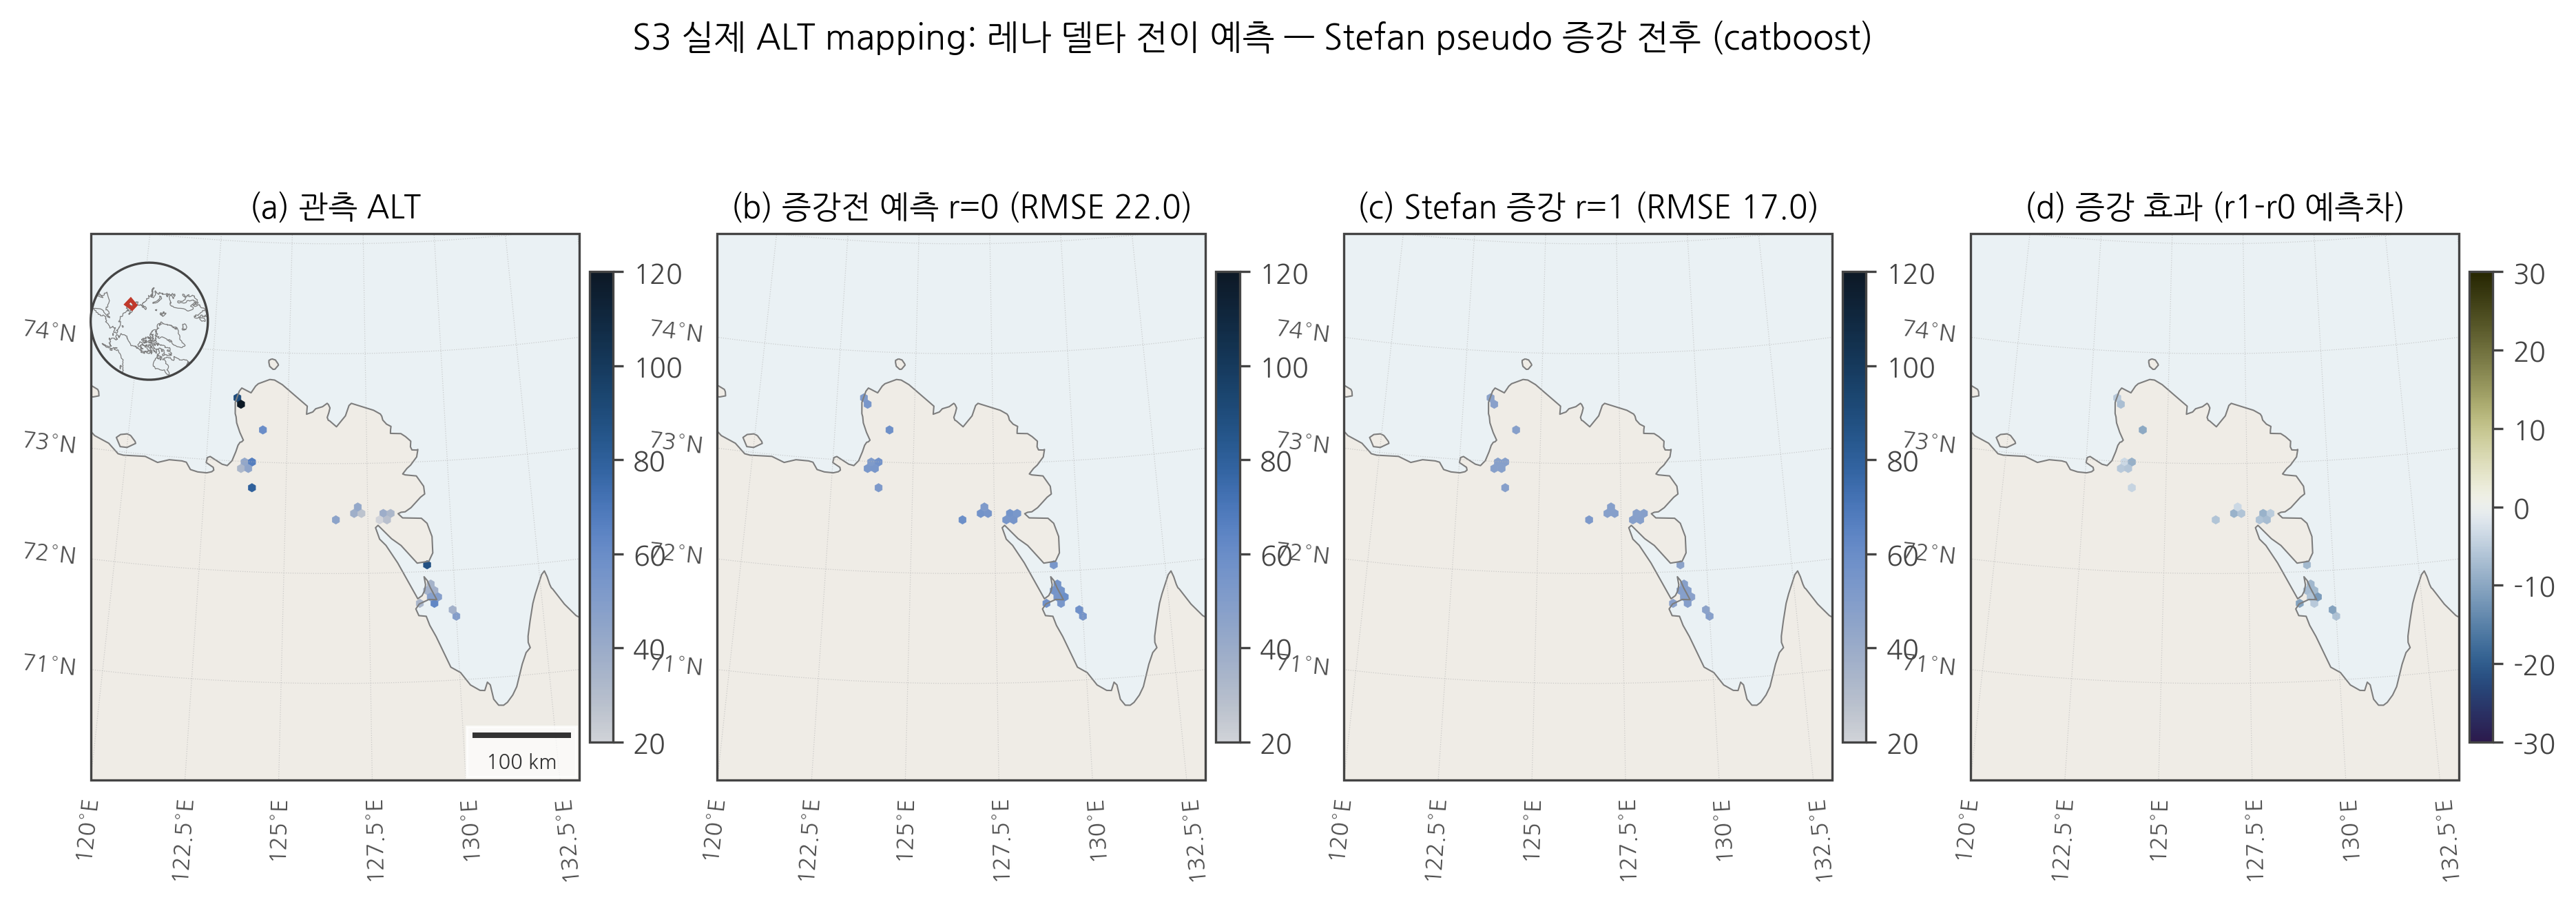
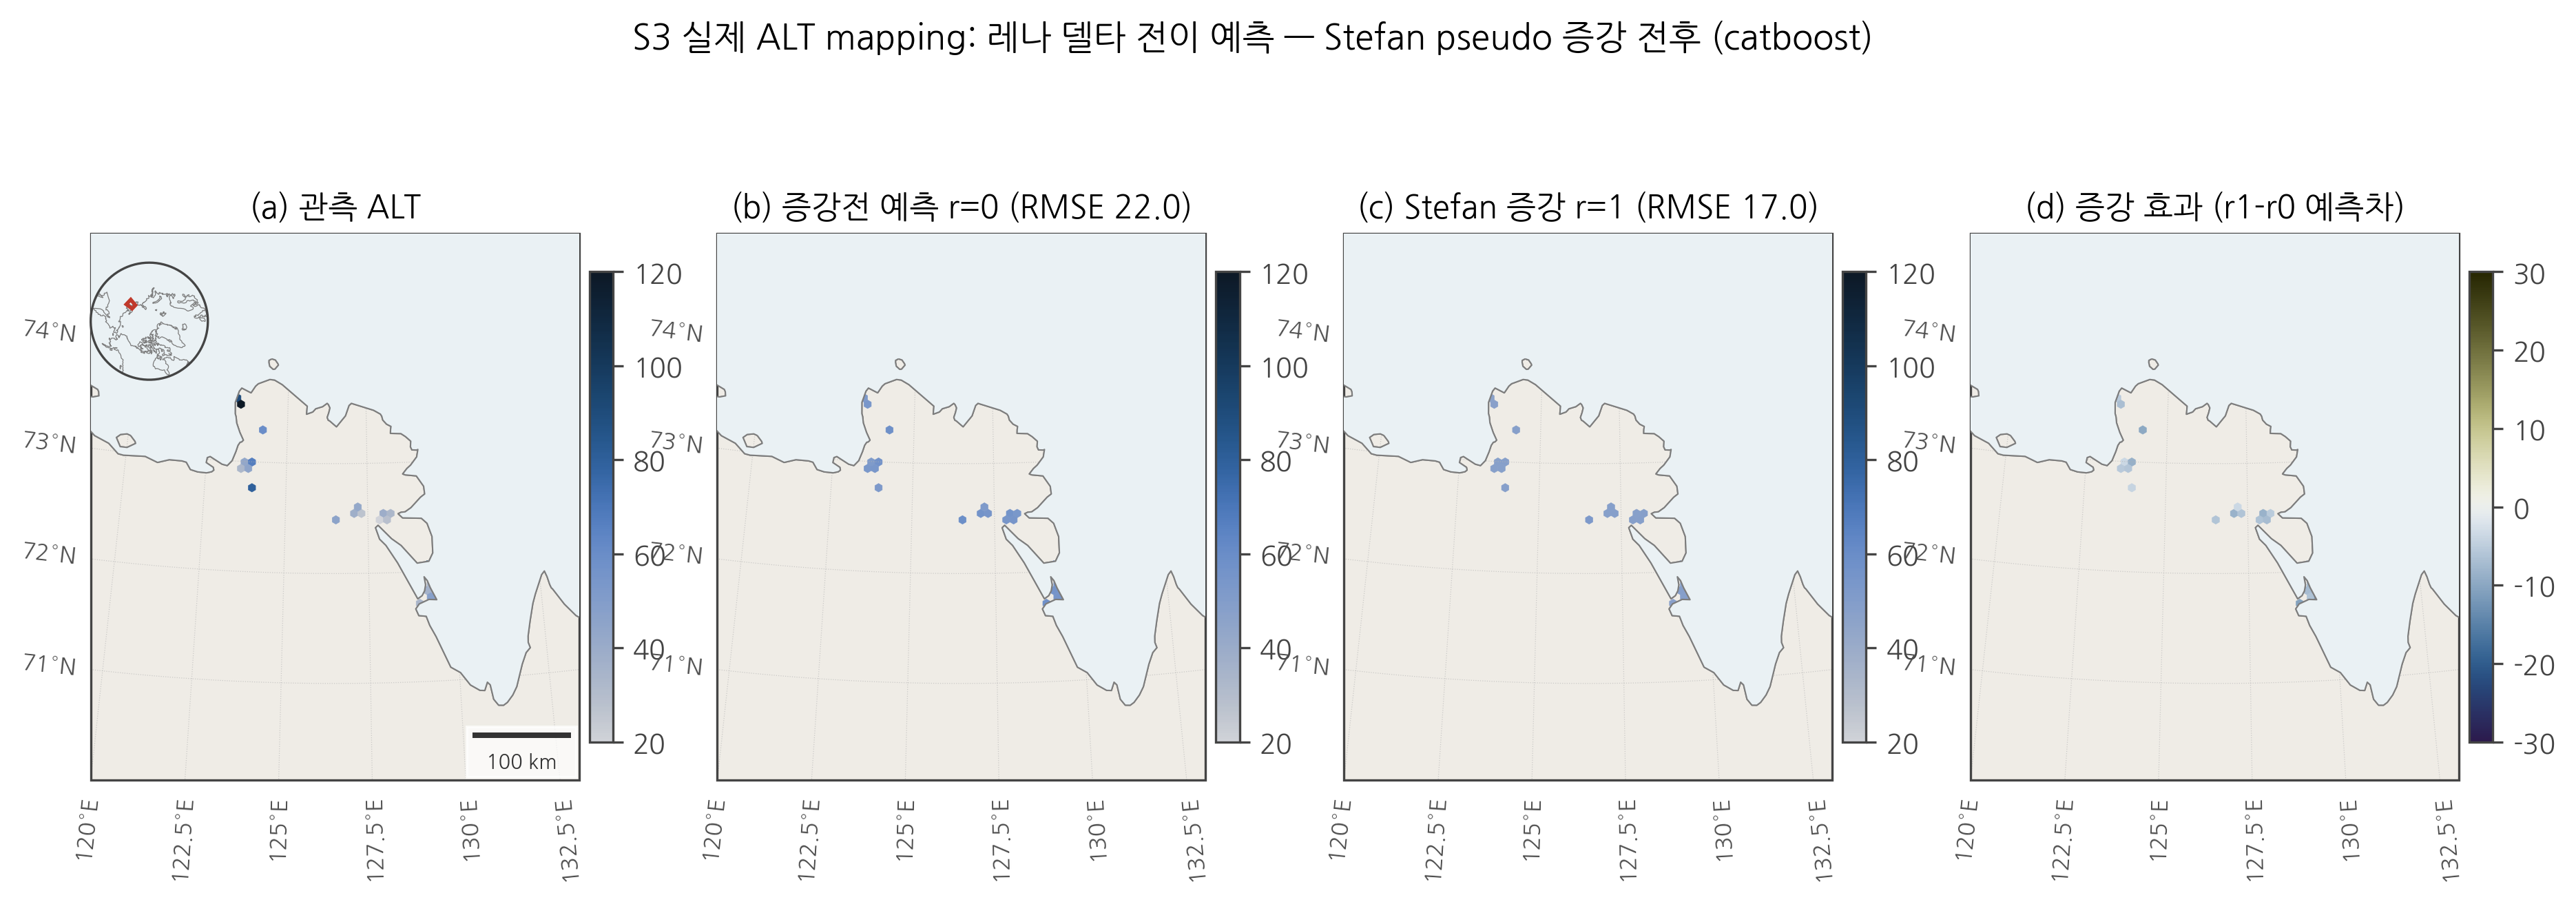
fix(viz): 지도 바다 마스크(mask_ocean) — hexbin 해안 삐짐 제거
- geomap.mask_ocean: 데이터 위 OCEAN/LAKES/해안선 재도색(육지 관측만 표시)
- S1 관측/예측·잔차 지도 + 레나 전이 지도 재렌더
- 관측 좌표 자체는 육지(dem_elev<0 셀 0), 삐짐은 hexbin 셀 크기 아티팩트였음

diff --git a/src/polar/geomap.py b/src/polar/geomap.py
@@ -226,3 +226,13 @@ def circular_boundary(ax):
     """PANARCTIC NorthPolarStereo 지도를 원형으로(공개 API)."""
     if getattr(ax, "_is_geo", False):
         _circular(ax)
+
+
+def mask_ocean(ax, zorder=3):
+    """데이터(hexbin/field) 위에 바다·호수·해안선을 재도색해 해안선 넘어 삐진 픽셀 제거.
+    관측은 육지에 있으나 육각형/보간 셀이 커서 바다로 삐지는 시각화 아티팩트를 덮는다."""
+    if not getattr(ax, "_is_geo", False):
+        return
+    ax.add_feature(cfeature.OCEAN.with_scale("50m"), facecolor=_OCEAN, zorder=zorder, edgecolor="none")
+    ax.add_feature(cfeature.LAKES.with_scale("50m"), facecolor=_OCEAN, alpha=0.7, zorder=zorder, edgecolor="none")
+    ax.add_feature(cfeature.COASTLINE.with_scale("50m"), edgecolor=_COAST, linewidth=0.5, zorder=zorder + 0.1)

diff --git a/scripts/4_visualization/s1_baseline_figs.py b/scripts/4_visualization/s1_baseline_figs.py
@@ -15,7 +15,7 @@ sys.path.insert(0, str(Path(__file__).resolve().parents[2] / "src"))
 from polar import config as C
 from polar.plotstyle import use_polar, CMAP, tnorm
 from polar.geomap import (make_ax, scatter_map, hexbin_map, add_colorbar, add_scalebar,
-                          add_inset_locator, ALASKA)
+                          add_inset_locator, mask_ocean, ALASKA)
 
 use_polar()
 PROC = C.PROCESSED
@@ -56,6 +56,7 @@ for i, (title, vals) in enumerate(panels):
     ax = fig.add_subplot(1, 4, i + 1, projection=proj)
     make_ax(ALASKA, ax=ax, fig=fig, title=title)
     hb = hexbin_map(ax, oof.lon, oof.lat, vals, gridsize=40, cmap=CMAP.alt, vmin=vmin, vmax=vmax)
+    mask_ocean(ax)   # 해안선 넘어 삐진 hexbin 제거
     if i == 0:
         add_inset_locator(fig, ax, ALASKA); add_scalebar(ax)
 cb = fig.colorbar(hb, ax=fig.axes, fraction=0.012, pad=0.02)
@@ -73,6 +74,7 @@ for i, m in enumerate(ordered):
     make_ax(ALASKA, ax=ax, fig=fig, title=f"{m}  (bias {(oof[f'pred_{m}']-oof.alt_cm).mean():+.1f})")
     resid = oof[f"pred_{m}"] - oof.alt_cm
     hb = hexbin_map(ax, oof.lon, oof.lat, resid, gridsize=38, cmap=CMAP.diff, norm=tnorm(-40, 40, 0))
+    mask_ocean(ax)
 cb = fig.colorbar(hb, ax=fig.axes, fraction=0.012, pad=0.02)
 cb.set_label("예측 - 관측 (cm)", fontsize=9)
 fig.suptitle("S1 모델별 잔차 지도 (hexbin 중앙값; 파랑=과소, 갈색=과대)", fontsize=12, y=1.0)